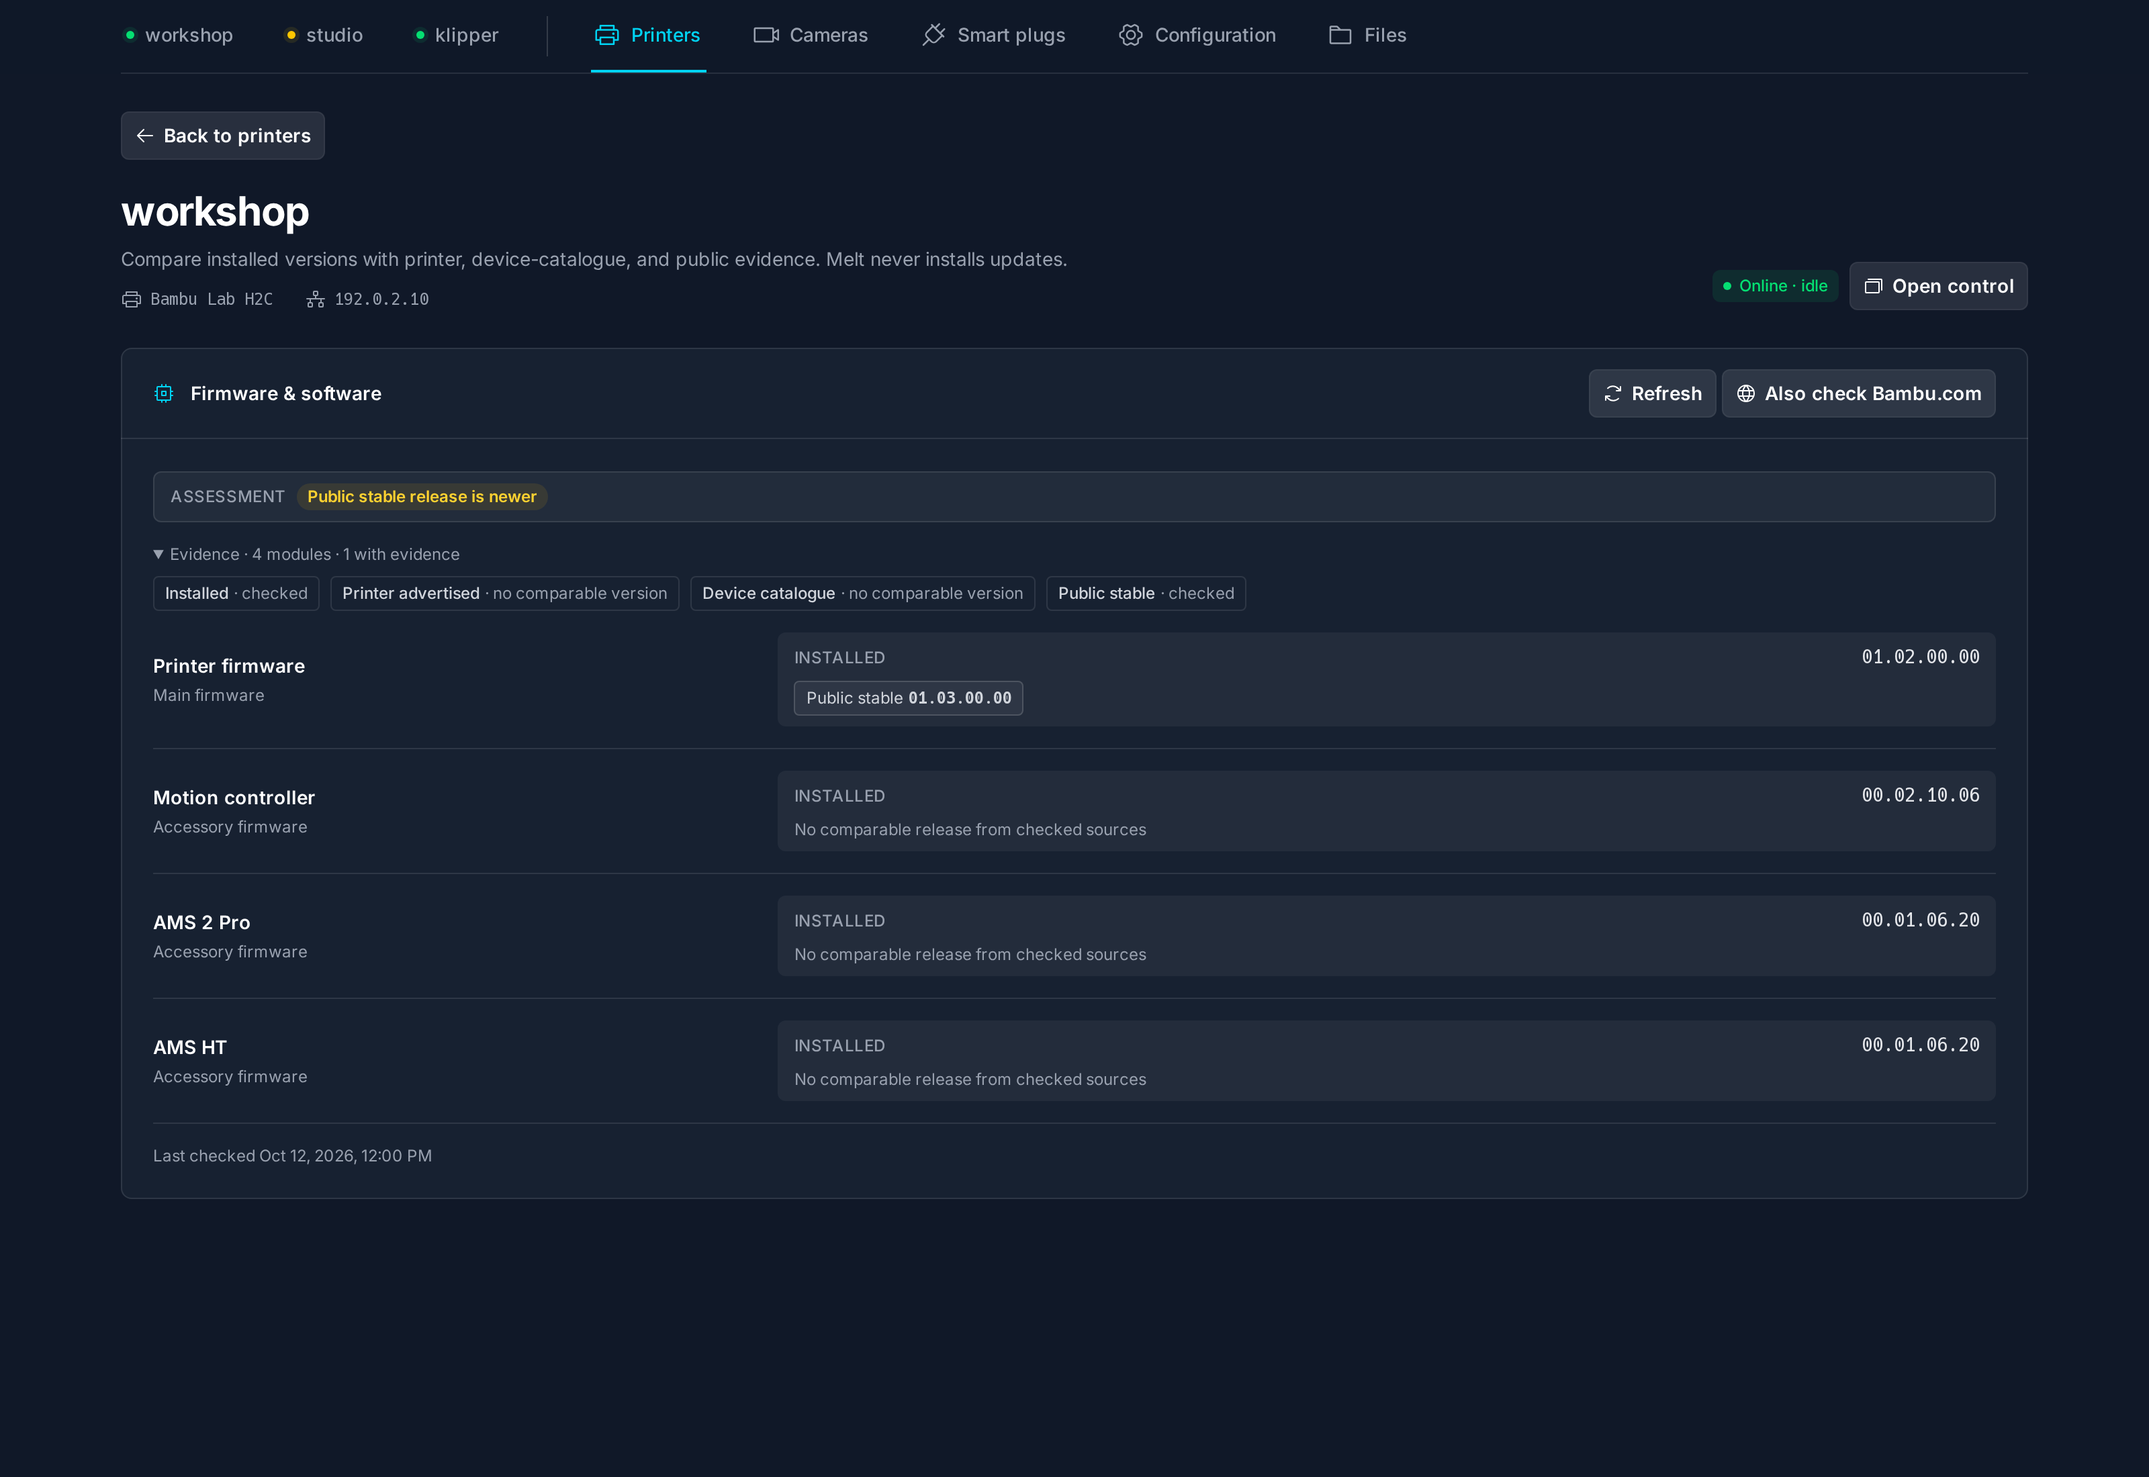
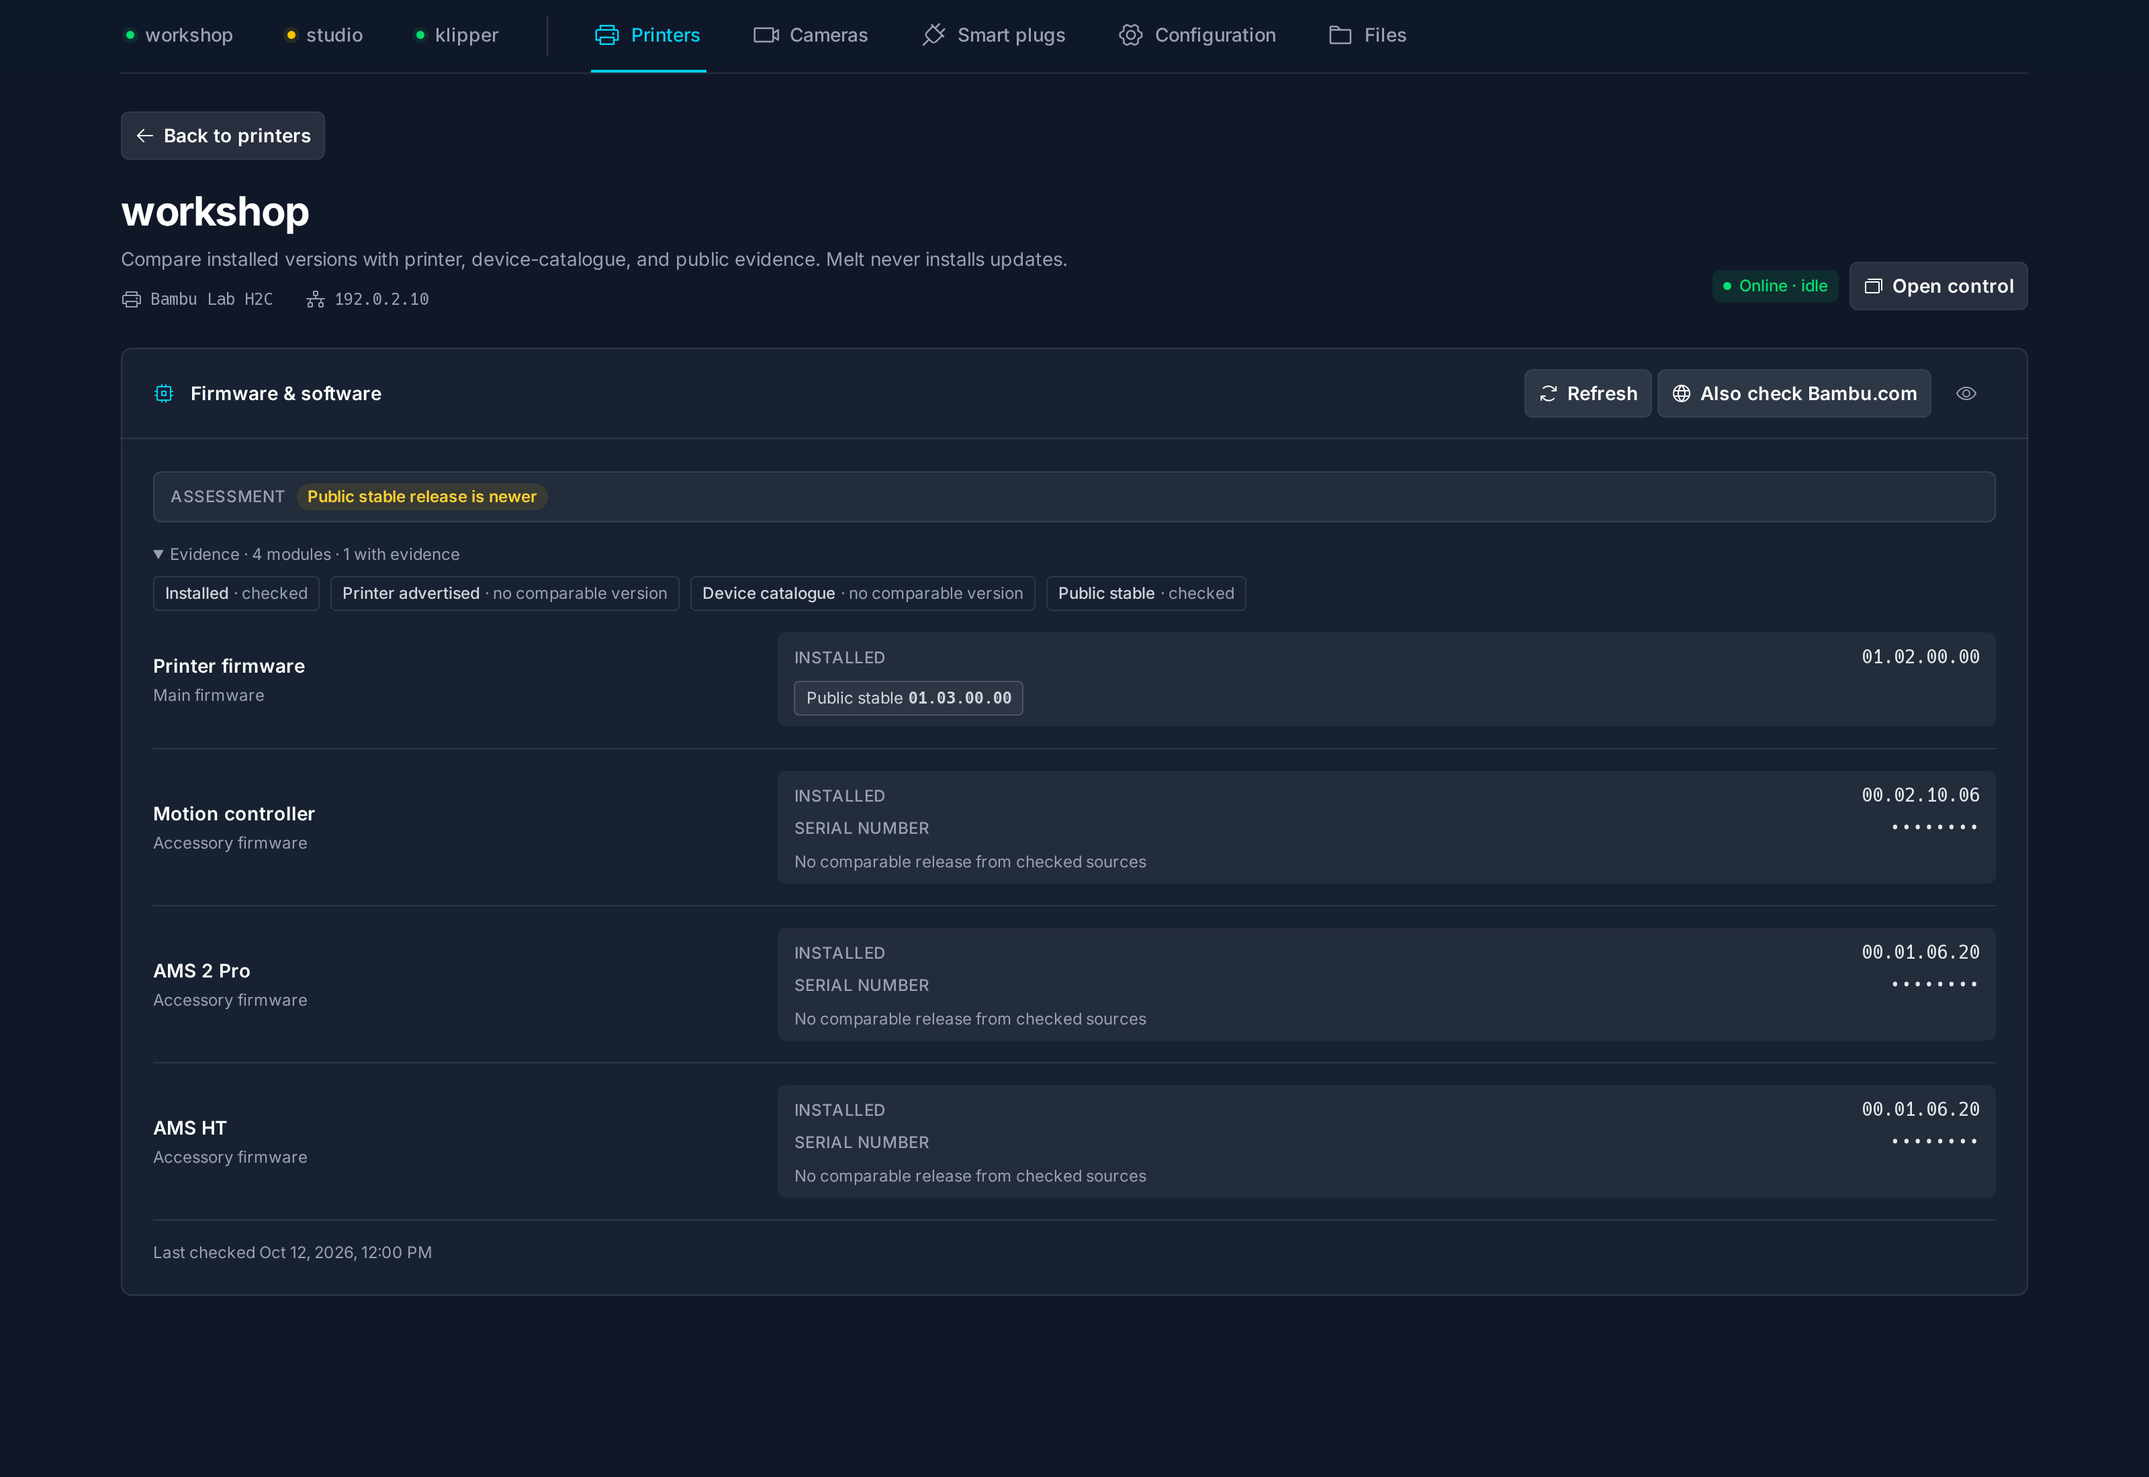
feat: show Bambu module serials in Firmware & software
Bambu get_version reports a serial per module (motion controller, toolhead,
AMS units). Carry it on FirmwareUpdateComponent and show it on the printer's
Firmware & software card, masked behind the same reveal toggle as the
printer serial, so AMS units can be told apart and support/RMA requests
have the part serial at hand.

Blank or invalid serials are dropped (validate_serial), a module serial
equal to the printer's own is not repeated, and the shareable
compatibility report strips module serials.

diff --git a/ui/src/views/PrintersView.vue b/ui/src/views/PrintersView.vue
@@ -14,6 +14,7 @@ import {
   type FirmwareEvidenceRole,
   type FirmwareSourceCheck,
   type FirmwareUpdateAssessment,
+  type FirmwareUpdateComponent,
   type FirmwareUpdateComponentKind,
   type FirmwareUpdateEntry,
 } from '../firmware-updates'
@@ -164,6 +165,12 @@ function openEdit(printer: Printer) {
 
 function serialIsRevealed(name: string) {
   return revealedSerials.value.has(name)
+}
+
+// A module that reports the printer's own serial adds nothing on top of the
+// printer card, so only distinct module serials are shown.
+function componentSerial(component: FirmwareUpdateComponent): string | undefined {
+  return component.serial && component.serial !== firmwarePrinter.value?.serial ? component.serial : undefined
 }
 
 function toggleSerial(name: string) {
@@ -482,6 +489,16 @@ defineExpose({ openEdit })
             :disabled="firmwareRefreshing || !firmwarePrinterModel"
             @click="loadPublicFirmwareCatalogue(firmwarePrinter.name)"
           ><PhGlobe class="size-4" :class="firmwareRefreshSource === 'publicCatalogue' && 'animate-spin'" aria-hidden="true" /> {{ t('firmware.checkPublicCatalogue') }}</Button>
+          <IconButton
+            v-if="selectedFirmwareUpdate?.report.components.some((component) => componentSerial(component))"
+            :title="t(serialIsRevealed(firmwarePrinter.name) ? 'printersView.hideSerialNamed' : 'printersView.showSerialNamed', { name: firmwarePrinter.name })"
+            :aria-label="t(serialIsRevealed(firmwarePrinter.name) ? 'printersView.hideSerialNamed' : 'printersView.showSerialNamed', { name: firmwarePrinter.name })"
+            :aria-pressed="serialIsRevealed(firmwarePrinter.name)"
+            @click="toggleSerial(firmwarePrinter.name)"
+          >
+            <PhEyeSlash v-if="serialIsRevealed(firmwarePrinter.name)" class="size-4" aria-hidden="true" />
+            <PhEye v-else class="size-4" aria-hidden="true" />
+          </IconButton>
         </CardHeader>
         <div class="px-4 py-5 sm:p-6" :aria-busy="firmwareRefreshing">
           <div v-if="!selectedFirmwareUpdate" class="flex items-start gap-3 text-sm text-gray-500 dark:text-gray-400" role="status">
@@ -530,6 +547,13 @@ defineExpose({ openEdit })
                   <div class="flex items-baseline justify-between gap-3">
                     <span class="text-xs font-medium uppercase tracking-wide text-gray-500 dark:text-gray-400">{{ t('firmware.installed') }}</span>
                     <span class="truncate font-mono text-sm text-gray-800 dark:text-gray-200" :title="component.currentVersion">{{ component.currentVersion || '—' }}</span>
+                  </div>
+                  <div v-if="componentSerial(component)" class="mt-1 flex items-baseline justify-between gap-3">
+                    <span class="text-xs font-medium uppercase tracking-wide text-gray-500 dark:text-gray-400">{{ t('addition.serial') }}</span>
+                    <span class="truncate font-mono text-sm text-gray-800 dark:text-gray-200" aria-live="polite">
+                      <span class="sr-only">{{ serialIsRevealed(firmwarePrinter.name) ? componentSerial(component) : t('printersView.serialHidden') }}</span>
+                      <span aria-hidden="true">{{ serialNumberDisplay(componentSerial(component) ?? '', serialIsRevealed(firmwarePrinter.name)) }}</span>
+                    </span>
                   </div>
                   <div v-if="firmwareEvidenceFor(component).length" class="mt-2 flex flex-wrap gap-1.5">
                     <span

diff --git a/ui/src/firmware-updates.ts b/ui/src/firmware-updates.ts
@@ -26,6 +26,7 @@ export type FirmwareUpdateComponent = {
   availableVersion?: string
   availability: FirmwareUpdateAvailability
   required: boolean
+  serial?: string
   evidence?: FirmwareVersionEvidence[]
 }
 

diff --git a/crates/melt-core/src/diagnostics.rs b/crates/melt-core/src/diagnostics.rs
@@ -348,7 +348,14 @@ pub fn bambu_compatibility_report_with_updates(
                 hardware: module.hardware.clone(),
             })
             .collect(),
-        firmware_updates: firmware_updates.cloned(),
+        // The compatibility report is meant to be shared; module serials stay
+        // on the printer page.
+        firmware_updates: firmware_updates.cloned().map(|mut report| {
+            for component in &mut report.components {
+                component.serial = None;
+            }
+            report
+        }),
         capability_observations: observations,
         model_defaults: capabilities.model_defaults.clone(),
         upgrade_observations,
@@ -660,5 +667,48 @@ mod tests {
         assert!(json.contains("\"modelSource\":\"serialPrefix\""));
         assert!(!json.contains("SECRETSERIAL"));
         assert!(!json.contains("01P"));
+    }
+
+    /// The desktop shows per-module serials on the printer page, but the
+    /// compatibility report is made to be shared, so it never carries them.
+    #[test]
+    fn the_compatibility_report_drops_module_serials() {
+        use crate::firmware_updates::{
+            FirmwareUpdateAvailability, FirmwareUpdateComponent, FirmwareUpdateComponentKind,
+            FirmwareUpdateSource,
+        };
+        let updates = FirmwareUpdateReport::from_components(
+            FirmwareUpdateSource::BambuMqtt,
+            vec![FirmwareUpdateComponent {
+                id: "n3f/0".into(),
+                label: "n3f/0".into(),
+                kind: FirmwareUpdateComponentKind::AccessoryFirmware,
+                current_version: Some("00.00.06.40".into()),
+                available_version: None,
+                availability: FirmwareUpdateAvailability::Unknown,
+                required: false,
+                serial: Some("19C06A552504488".into()),
+                evidence: Vec::new(),
+            }],
+            Vec::new(),
+        );
+        assert!(updates.components[0].serial.is_some());
+
+        let report = bambu_compatibility_report_with_updates(
+            1,
+            &RuntimeCapabilities::for_identity(Default::default()),
+            &CameraSelection {
+                preferred: bambu::CameraTransport::Unknown,
+                source: bambu::CameraSelectionSource::Unknown,
+                rejected_advertisement: None,
+                quirk_ids: Vec::new(),
+            },
+            true,
+            None,
+            Some(&updates),
+        );
+        let json = serde_json::to_string(&report).unwrap();
+        assert!(json.contains("00.00.06.40"));
+        assert!(!json.contains("19C06A552504488"));
     }
 }

diff --git a/crates/melt-core/src/bambu/firmware.rs b/crates/melt-core/src/bambu/firmware.rs
@@ -188,6 +188,12 @@ pub fn update_report(status: &Value, inventory: &FirmwareInventory) -> FirmwareU
                 available_version: None,
                 availability: FirmwareUpdateAvailability::Unknown,
                 required: false,
+                serial: module
+                    .serial
+                    .as_deref()
+                    .map(str::trim)
+                    .filter(|serial| super::validate_serial(serial).is_ok())
+                    .map(str::to_owned),
                 evidence: if version.is_empty() {
                     Vec::new()
                 } else {
@@ -452,6 +458,7 @@ fn merge_public_target(
             available_version: None,
             availability: FirmwareUpdateAvailability::Unknown,
             required: false,
+            serial: None,
             evidence: Vec::new(),
         });
     component.evidence.push(FirmwareVersionEvidence {
@@ -515,6 +522,7 @@ fn merge_catalogue_target(
             available_version: None,
             availability: FirmwareUpdateAvailability::Unknown,
             required: false,
+            serial: None,
             evidence: Vec::new(),
         });
     let _ = required;
@@ -597,6 +605,7 @@ fn merge_target(
             available_version: None,
             availability: FirmwareUpdateAvailability::Unknown,
             required: false,
+            serial: None,
             evidence: Vec::new(),
         });
     component.required |= required;
@@ -714,6 +723,28 @@ mod tests {
         assert_eq!(inventory.modules[0].project, None);
         let report = update_report(&json!({}), &inventory);
         assert_eq!(report.components[0].label, "ams_f1/0");
+    }
+
+    /// Modules without their own board (`ota`, `xm`) report `"sn": ""`;
+    /// that is absence, not a serial worth showing.
+    #[test]
+    fn update_report_carries_module_serials_and_drops_blank_ones() {
+        let inventory = FirmwareInventory::from_version_info(&json!({"module": [
+            {"name":"ota","sw_ver":"01.08.00.00","sn":""},
+            {"name":"n3f/0","sw_ver":"00.00.06.40","sn":" 19C06A552504488 "}
+        ]}));
+        let report = update_report(&json!({}), &inventory);
+        let serial = |id: &str| {
+            report
+                .components
+                .iter()
+                .find(|component| component.id == id)
+                .unwrap()
+                .serial
+                .as_deref()
+        };
+        assert_eq!(serial("n3f/0"), Some("19C06A552504488"));
+        assert_eq!(serial("ota"), None);
     }
 
     #[test]

diff --git a/scripts/capture_screenshots.py b/scripts/capture_screenshots.py
@@ -160,16 +160,17 @@ def screenshot_state(base, printing):
             continue
         source = "bambuMqtt" if p["driver"] == "bambu-lan" else "moonrakerUpdateManager"
         components = []
-        for module, label, current, target in (
-            ("ota", "Printer firmware", "01.02.00.00", "01.03.00.00"),
-            ("mc", "Motion controller", "00.02.10.06", None),
-            ("ams/0", "AMS 2 Pro", "00.01.06.20", None),
-            ("ams/128", "AMS HT", "00.01.06.20", None),
+        # Fake module serials; `ota` reports none, as on real printers.
+        for module, label, current, target, serial in (
+            ("ota", "Printer firmware", "01.02.00.00", "01.03.00.00", None),
+            ("mc", "Motion controller", "00.02.10.06", None, "SAMPLEMC0000001"),
+            ("ams/0", "AMS 2 Pro", "00.01.06.20", None, "SAMPLEAMS000001"),
+            ("ams/128", "AMS HT", "00.01.06.20", None, "SAMPLEAMS000002"),
         ):
             evidence = [{"source": "bambuLanInventory", "role": "installed", "version": current, "required": False}]
             if target:
                 evidence.append({"source": "bambuPublicCatalogue", "role": "publicStable", "version": target, "required": False})
-            components.append({"id": module, "label": label, "kind": "printerFirmware" if module == "ota" else "accessoryFirmware", "currentVersion": current, "availability": "unknown", "required": False, "evidence": evidence})
+            components.append({"id": module, "label": label, "kind": "printerFirmware" if module == "ota" else "accessoryFirmware", "currentVersion": current, "availability": "unknown", "required": False, "evidence": evidence, **({"serial": serial} if serial else {})})
         data["firmware"].append({
             "profile": p["name"], "driver": p["driver"], "checkedAt": data["capturedAt"], "stale": False,
             "sources": [{"source": s, "checkedAt": data["capturedAt"], "outcome": "empty" if s in ("bambuLanHistory", "bambuLanAdvertisement") else "success", "stale": False} for s in ("bambuLanInventory", "bambuLanAdvertisement", "bambuLanHistory", "bambuPublicCatalogue")],

diff --git a/crates/melt-core/src/firmware_updates.rs b/crates/melt-core/src/firmware_updates.rs
@@ -87,6 +87,10 @@ pub struct FirmwareUpdateComponent {
     pub available_version: Option<String>,
     pub availability: FirmwareUpdateAvailability,
     pub required: bool,
+    /// Hardware serial the module reports for itself (Bambu `get_version`
+    /// `sn`). Identifying, so the UI masks it and shareable reports drop it.
+    #[serde(skip_serializing_if = "Option::is_none")]
+    pub serial: Option<String>,
     #[serde(default, skip_serializing_if = "Vec::is_empty")]
     pub evidence: Vec<FirmwareVersionEvidence>,
 }
@@ -320,6 +324,7 @@ mod tests {
             available_version: None,
             availability,
             required: false,
+            serial: None,
             evidence: Vec::new(),
         }
     }

diff --git a/crates/melt-cli/src/lib.rs b/crates/melt-cli/src/lib.rs
@@ -6162,6 +6162,7 @@ mod tests {
                 available_version: Some("2.0".into()),
                 availability: FirmwareUpdateAvailability::Available,
                 required: true,
+                serial: None,
                 evidence: Vec::new(),
             }],
             vec![FirmwareUpdateIssue {
@@ -6227,6 +6228,7 @@ mod tests {
                     available_version: None,
                     availability,
                     required: false,
+                    serial: None,
                     evidence: Vec::new(),
                 }],
                 Vec::new(),

diff --git a/crates/melt-core/src/moonraker.rs b/crates/melt-core/src/moonraker.rs
@@ -1096,6 +1096,7 @@ fn moonraker_update_report(result: &Value) -> FirmwareUpdateReport {
             available_version: available_version.clone(),
             availability,
             required: false,
+            serial: None,
             evidence: [
                 current_version
                     .as_ref()

diff --git a/docs/firmware-updates.md b/docs/firmware-updates.md
@@ -35,6 +35,13 @@ and versions and 128-byte labels. Unknown modules stay visible when useful
 version evidence exists. Issues describe malformed, conflicting or unavailable
 sources without copying raw credentials or network payloads.
 
+Bambu components carry an optional `serial` taken from the module's own `sn`
+in `get_version` (for example an AMS unit or the motion controller). Blank or
+invalid values are omitted rather than truncated. The desktop masks module
+serials behind the same reveal toggle as the printer serial and hides one that
+equals the printer's own. `melt firmware check --output json` includes them; the
+shareable compatibility report never does.
+
 ## CLI
 
 The default is LAN-only and preserves the existing behavior:

diff --git a/docs/screenshots.md b/docs/screenshots.md
@@ -51,7 +51,8 @@ actions together. This capture uses an illustrated sample model preview.
 ## Firmware & software
 
 Per-printer comparison of installed module versions against printer-advertised,
-device-catalogue, and public-stable evidence.
+device-catalogue, and public-stable evidence. Module serial numbers are
+masked until revealed with the eye toggle.
 
 The assessment distinguishes a newer public stable release from an update
 confirmed by the printer; a public release is not an actual release offer.
